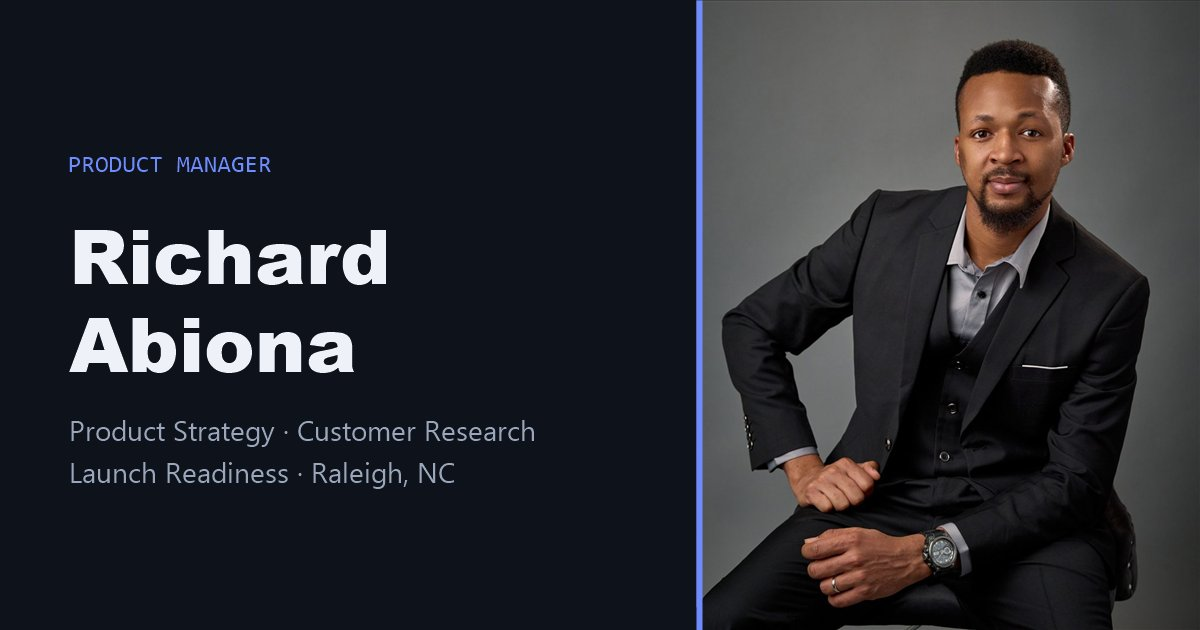
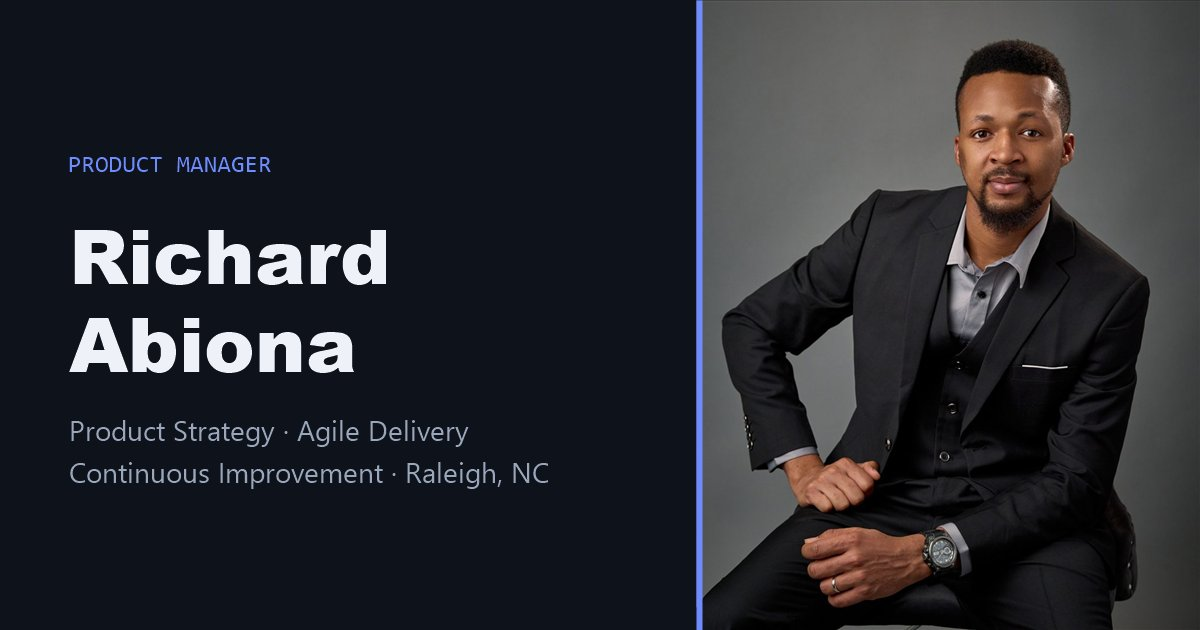
Add files via upload

Changed region(s): [[0.0617, 0.6635, 0.4625, 0.7841]]

diff --git a/index.html b/index.html
@@ -6,7 +6,7 @@
 <style>body{margin:0}img{max-width:100%}[hidden]{display:none!important}</style>
 <title>Richard Abiona | Product Manager</title>
 <meta name="claude:viewport-fit-sides" content="cover">
-<meta name="description" content="Richard Abiona is a Raleigh, NC product manager who turns customer research and stakeholder decisions into build-ready requirements and launch-ready SaaS products.">
+<meta name="description" content="Richard Abiona is a Raleigh, NC product manager who owns SaaS roadmaps and delivery, with a background in product operations, process improvement, and data analysis.">
 <meta name="author" content="Richard Abiona">
 <meta name="robots" content="index, follow">
 <link rel="canonical" href="https://richardabiona.com/">
@@ -17,7 +17,7 @@
 <meta property="og:type" content="profile">
 <meta property="og:site_name" content="Richard Abiona">
 <meta property="og:title" content="Richard Abiona | Product Manager">
-<meta property="og:description" content="Product strategy, customer research, requirements, and launch readiness for SaaS products. Lean Six Sigma Green Belt. Based in Raleigh, NC.">
+<meta property="og:description" content="Product strategy, Agile delivery, continuous improvement, and data analysis. Lean Six Sigma Green Belt. Based in Raleigh, NC.">
 <meta property="og:url" content="https://richardabiona.com/">
 <meta property="og:image" content="https://richardabiona.com/og-image.jpg">
 <meta property="og:image:width" content="1200">
@@ -27,7 +27,7 @@
 <meta property="profile:last_name" content="Abiona">
 <meta name="twitter:card" content="summary_large_image">
 <meta name="twitter:title" content="Richard Abiona | Product Manager">
-<meta name="twitter:description" content="Product strategy, customer research, requirements, and launch readiness for SaaS products. Based in Raleigh, NC.">
+<meta name="twitter:description" content="Product strategy, Agile delivery, continuous improvement, and data analysis. Based in Raleigh, NC.">
 <meta name="twitter:image" content="https://richardabiona.com/og-image.jpg">
 <script type="application/ld+json">
 {
@@ -46,7 +46,7 @@
     "email": "mailto:richardabiona007@gmail.com",
     "jobTitle": "Product Manager",
     "worksFor": { "@type": "Organization", "name": "Aeonian Technology LLC" },
-    "description": "Product manager who turns customer research and stakeholder decisions into build-ready requirements and launch-ready SaaS products.",
+    "description": "Product manager who owns SaaS roadmaps and delivery, with a background in product operations, process improvement, and data analysis.",
     "address": { "@type": "PostalAddress", "addressLocality": "Raleigh", "addressRegion": "NC", "addressCountry": "US" },
     "alumniOf": [
       { "@type": "CollegeOrUniversity", "name": "North Carolina State University" },
@@ -58,7 +58,7 @@
       { "@type": "EducationalOccupationalCredential", "name": "Lean Six Sigma Green Belt" },
       { "@type": "EducationalOccupationalCredential", "name": "Design Thinking Certification", "recognizedBy": { "@type": "Organization", "name": "StacStart" } }
     ],
-    "knowsAbout": ["Product management", "Product strategy", "Product roadmaps", "Customer research", "Requirements definition", "User stories", "Launch readiness", "Go-to-market planning", "Stakeholder management", "Lean Six Sigma", "Design thinking", "AI web applications"],
+    "knowsAbout": ["Product management", "Product strategy", "Product operations", "Project management", "Agile delivery", "Continuous improvement", "Lean Six Sigma", "DMAIC", "Statistical process control", "Process capability analysis", "Data analysis", "Regression analysis", "Time-series forecasting", "KPI dashboards", "Stakeholder management"],
     "sameAs": ["https://www.linkedin.com/in/richard-abiona-0084b285/"]
   }
 }
@@ -306,14 +306,8 @@ section + section { border-top: 1px solid var(--line); }
 .cred li { padding-block: 12px; border-top: 1px solid var(--line); display: grid; gap: 2px; }
 .cred li b { font-weight: 600; }
 .cred li span { color: var(--muted); font-size: 0.9375rem; }
-
-/* Service */
-.service { display: grid; gap: 16px; grid-template-columns: repeat(auto-fit, minmax(min(100%, 420px), 1fr)); }
-.svc { background: var(--surface); border: 1px solid var(--line); padding: 24px; display: grid; gap: 8px; align-content: start; transition: transform 0.35s var(--ease), box-shadow 0.35s var(--ease); }
-.svc:hover { transform: translateY(-3px); box-shadow: var(--shadow); }
-.svc h3 { font-size: 1.125rem; font-weight: 800; }
-.svc p { color: var(--muted); font-size: 0.96875rem; }
-.svc.lead { border-color: var(--accent); }
+.also { margin-top: 40px; padding-top: 20px; border-top: 1px solid var(--line); color: var(--muted); max-width: 46rem; font-size: 0.98rem; }
+.also b { color: var(--ink); font-weight: 600; }
 
 /* Contact */
 .contact { background: var(--hero-bg); color: var(--hero-ink); border-top: 0 !important; }
@@ -360,12 +354,13 @@ section + section { border-top: 1px solid var(--line); }
   <div class="wrap">
     <p class="spec">Product Manager · Raleigh, NC</p>
     <h1><span class="hi">Hi, I'm</span>Richard Abiona</h1>
-    <p class="lede">I turn customer research and stakeholder decisions into build-ready requirements, and I make sure products are ready before they launch. I bring a Lean Six Sigma eye for quality and a communicator's ear for users.</p>
+    <p class="lede">I own products from roadmap to release, and I use data and Lean Six Sigma methods to keep the work behind them running better. My background spans product, operations, and continuous improvement.</p>
     <ul class="hero-tags">
       <li>Product strategy &amp; roadmaps</li>
-      <li>Customer research</li>
-      <li>User stories &amp; acceptance criteria</li>
-      <li>Launch readiness</li>
+      <li>Agile delivery</li>
+      <li>Product operations</li>
+      <li>Continuous improvement</li>
+      <li>Data analysis &amp; forecasting</li>
       <li>Lean Six Sigma Green Belt</li>
     </ul>
     <div class="hero-cta">
@@ -380,21 +375,21 @@ section + section { border-top: 1px solid var(--line); }
     <div class="wrap about-grid">
       <div>
         <p class="spec">About</p>
-        <h2 style="margin-top:12px">A product manager who started by listening.</h2>
+        <h2 style="margin-top:12px">A product manager with an operator's discipline.</h2>
         <figure class="portrait" data-reveal>
           <div class="frame"><img src="richard-abiona.jpg" width="900" height="1125" alt="Portrait of Richard Abiona in a black three-piece suit, seated against a grey backdrop"></div>
           <figcaption class="spec">Raleigh, NC</figcaption>
         </figure>
       </div>
       <div class="about-copy">
-        <p>I'm a product manager at Aeonian Technology, where I run strategy and roadmaps for three SaaS products and report directly to the CEO. I'm also finishing an MS in Technology Management at North Carolina A&amp;T State University, with a 4.0 GPA.</p>
-        <p>I came to product through communication. I spent the years after my undergraduate degree leading communication and stakeholder engagement, most recently at The CANs in Abuja, a nonprofit that built digital platforms against gender-based violence, police brutality, and poverty. There I helped take the UNSUB platform from pilot to 2,000 users and learned that good products start with the people who use them.</p>
-        <p>My toolkit spans both sides of the work. On the research side: surveys, interviews, personas, and journey maps. On the delivery side: user stories, acceptance criteria, risk-based test plans, and go/no-go criteria. As a Lean Six Sigma Green Belt, I measure what matters, and I build AI-powered web apps of my own.</p>
+        <p>I'm a product manager at Aeonian Technology, where I own strategy, roadmaps, and delivery for three SaaS platforms and report directly to the CEO. I'm also completing an MS in Technology Management at North Carolina A&amp;T State University, with a 4.0 GPA.</p>
+        <p>Over the past ten years I've worked across product, operations, and programs. At The CANs, I ran platform operations for UNSUB and grew it from 17 to 2,000 users across 122 partner organizations in two months. As a consultant, I've redesigned client workflows and helped leaders make better decisions with data.</p>
+        <p>I let evidence guide the work. As a Lean Six Sigma Green Belt, I use DMAIC, process capability analysis, regression, and forecasting to find what's holding a process back and to measure whether a change worked. I also build AI-powered web apps of my own.</p>
         <a class="btn" href="#contact">Get in touch <span class="arr">→</span></a>
         <div class="readout" aria-label="Highlights">
-          <div data-reveal><b data-count="3">3</b><span>SaaS products managed in parallel</span></div>
+          <div data-reveal><b data-count="3">3</b><span>SaaS platforms owned in parallel</span></div>
           <div data-reveal style="--d:.08s"><b data-count="2000" data-suffix="">2,000</b><span>UNSUB users, up from 17 in two months</span></div>
-          <div data-reveal style="--d:.16s"><b data-count="150" data-suffix="+">150+</b><span>student registrations led at BVCC</span></div>
+          <div data-reveal style="--d:.16s"><b data-count="100" data-prefix="$" data-suffix="K">$100K</b><span>funding secured with data-backed reporting</span></div>
         </div>
       </div>
     </div>
@@ -404,43 +399,43 @@ section + section { border-top: 1px solid var(--line); }
     <div class="wrap">
       <div class="sec-head">
         <p class="spec">What I do</p>
-        <h2>From discovery to a confident launch.</h2>
+        <h2>From discovery to delivery, then better each cycle.</h2>
       </div>
       <div class="do-grid">
         <article class="do-item" data-reveal>
-          <p class="spec">Roadmaps · Prioritization · GTM</p>
+          <p class="spec">Roadmaps · Prioritization · MVP</p>
           <h3>Product Strategy</h3>
-          <p>Roadmap development, feature prioritization, product positioning, and go-to-market planning, tied to what executives and customers actually need.</p>
+          <p>Roadmap development, lifecycle management, feature prioritization, MVP scoping, and go-to-market planning.</p>
         </article>
         <article class="do-item" data-reveal style="--d:.06s">
           <p class="spec">Surveys · Interviews · Personas</p>
-          <h3>Customer Research</h3>
-          <p>Voice-of-customer surveys, stakeholder interviews, personas, and journey maps, synthesized into recommendations a team can act on.</p>
+          <h3>Research &amp; Discovery</h3>
+          <p>Voice-of-customer surveys, stakeholder interviews, personas, and competitive analysis, turned into recommendations leaders can act on.</p>
         </article>
         <article class="do-item" data-reveal style="--d:.12s">
-          <p class="spec">User stories · Acceptance criteria</p>
+          <p class="spec">Agile · Scrum · Sprint planning</p>
           <h3>Requirements &amp; Delivery</h3>
-          <p>Build-ready requirements, sprint planning support, and day-to-day coordination with offshore development partners.</p>
+          <p>Clear requirements, user stories, and acceptance criteria, with sprint planning and cross-functional coordination across offshore engineering teams.</p>
         </article>
         <article class="do-item" data-reveal>
-          <p class="spec">Go / no-go · Green Belt</p>
-          <h3>Launch Readiness &amp; Quality</h3>
-          <p>Risk-based test plans, severity-based launch criteria, and end-to-end journey testing, backed by Lean Six Sigma methods.</p>
+          <p class="spec">Go / no-go · Release coordination</p>
+          <h3>Launch &amp; Quality</h3>
+          <p>Risk-based test plans, severity-based launch criteria, end-to-end journey testing, SOPs, and training materials.</p>
         </article>
         <article class="do-item" data-reveal style="--d:.06s">
-          <p class="spec">Executives · Partners · Teams</p>
-          <h3>Stakeholder Management</h3>
-          <p>Executive reporting, cross-functional alignment, and influencing without authority. I taught public speaking at NC State for three semesters.</p>
+          <p class="spec">DMAIC · SPC · Cp / Cpk</p>
+          <h3>Continuous Improvement</h3>
+          <p>Lean Six Sigma Green Belt. I set baselines, analyze process capability, redesign workflows, and prioritize improvements with leadership.</p>
         </article>
         <article class="do-item" data-reveal style="--d:.12s">
-          <p class="spec">LLMs · Automation</p>
-          <h3>Building with AI</h3>
-          <p>I design and build AI-powered web apps myself, which keeps my requirements grounded in how software really gets made.</p>
+          <p class="spec">Regression · Forecasting · KPIs</p>
+          <h3>Data Analysis</h3>
+          <p>Multivariate regression, time-series forecasting, and KPI dashboards in Excel and Python that give teams a clear basis for planning.</p>
         </article>
       </div>
       <div class="toolkit" data-reveal>
         <span class="spec">Toolkit</span>
-        <span>Google Analytics</span><span>Google Forms &amp; Apps Script</span><span>Excel</span><span>Canva</span><span>Slack</span><span>Python</span><span>Claude</span><span>ChatGPT</span>
+        <span>Python</span><span>Excel (Advanced)</span><span>Google Analytics</span><span>KPI dashboards</span><span>Google Apps Script</span><span>Google Workspace</span><span>Slack</span><span>Canva</span><span>AI-assisted PM workflows</span>
       </div>
     </div>
   </section>
@@ -449,63 +444,64 @@ section + section { border-top: 1px solid var(--line); }
     <div class="wrap">
       <div class="sec-head">
         <p class="spec">Product work</p>
-        <h2>Selected product outcomes.</h2>
-        <p>What I owned, and what changed because of it.</p>
+        <h2>Selected outcomes.</h2>
+        <p>What I owned, how I ran it, and what changed because of it.</p>
       </div>
 
       <article class="case">
         <div class="case-meta" data-reveal>
           <p class="spec"><b>Product Manager</b> · Aeonian Technology LLC · Aug 2026 – now</p>
           <h3>The Aeon app family</h3>
-          <p>Strategy and roadmaps for three SaaS products: Aeon School (live bus tracking), RideOps (rideshare for operators), and Alumni Assets (fintech fund and association management).</p>
+          <p>End-to-end ownership of three SaaS platforms: Aeon School (live bus tracking), RideOps (rideshare operations), and Alumni Assets (fintech fund and association management).</p>
           <div class="case-metrics">
             <div><b data-count="150" data-suffix="+">150+</b><span>parent users on Aeon School</span></div>
-            <div><b data-count="13">13</b><span>sprints led on the fintech platform</span></div>
+            <div><b data-count="13">13</b><span>sprint fintech platform delivery</span></div>
             <div><b>100+ → 10</b><span>features narrowed to critical journeys</span></div>
           </div>
         </div>
         <ul class="case-body" data-reveal style="--d:.1s">
-          <li><b>Led a 13-sprint fintech build</b> with an offshore partner, writing user stories, acceptance criteria, and requirements for tier benefits, board-vote approval workflows, and portfolio-based membership tiers.</li>
-          <li><b>Built a risk-based pre-launch test plan</b> that narrowed 100+ features to 10 critical end-to-end user journeys, with severity-based go/no-go criteria across web, Android, and six role-based user manuals.</li>
-          <li><b>Ran voice-of-customer research</b> for drivers, operators, and parents using branching surveys built in Google Apps Script, and turned the findings into roadmap recommendations on driver onboarding and tracking reliability.</li>
-          <li><b>Shaped the product family's naming and information architecture</b>, wrote a branding proposal that client executives approved, and created sales content that surfaced an undersold charter booking feature.</li>
+          <li><b>Managing a 13-sprint fintech delivery</b> with an offshore engineering partner: user stories, requirements, and acceptance criteria for tier benefit logic, board-vote approval workflows, and portfolio-based membership tiers.</li>
+          <li><b>Built a risk-based pre-launch test plan</b> that narrowed 100+ features to 10 critical end-to-end journeys, with severity-based go/no-go criteria. I coordinated testing across web and Android, produced six role-based user manuals, and finished validation on schedule.</li>
+          <li><b>Ran voice-of-customer research</b> for drivers, operators, and parents using branching surveys built in Google Apps Script. The CEO approved the resulting roadmap recommendations on driver onboarding and tracking reliability.</li>
+          <li><b>Defined information architecture and naming</b> for the full app family, and produced sales enablement materials that surfaced an undersold charter booking feature, adding a new line to the commercial pitch.</li>
         </ul>
       </article>
 
       <article class="case">
         <div class="case-meta" data-reveal>
-          <p class="spec"><b>Communications &amp; Stakeholder Engagement Lead</b> · The CANs · 2019 – 2023</p>
+          <p class="spec"><b>Platform Operations &amp; Stakeholder Engagement Lead</b> · The CANs · 2019 – 2023</p>
           <h3>UNSUB platform &amp; Project RISE</h3>
-          <p>Helped take a civic-tech platform from pilot to scaled adoption, and ran launch readiness for a program spanning 70+ organizations.</p>
+          <p>Took a platform from pilot to scaled deployment, and ran program operations across 70+ partner organizations.</p>
           <div class="case-metrics">
             <div><b>17 → 2,000</b><span>users in two months</span></div>
-            <div><b data-count="122">122</b><span>partner organizations onboarded</span></div>
-            <div><b data-count="100" data-prefix="$" data-suffix="K">$100K</b><span>in funding secured</span></div>
+            <div><b data-count="122">122</b><span>partner organizations deployed</span></div>
+            <div><b data-count="35000">35,000</b><span>Project RISE beneficiaries reached</span></div>
           </div>
         </div>
         <ul class="case-body" data-reveal style="--d:.1s">
-          <li><b>Supported the UNSUB lifecycle</b> from pilot to scale, coordinating onboarding across 122 partner organizations and iterating on the platform from user requirements.</li>
-          <li><b>Turned product outcomes into funding</b> with data-backed performance reports and stakeholder updates that secured $100,000.</li>
-          <li><b>Managed launch readiness for Project RISE</b> across 70+ organizations, reaching 35,000 beneficiaries on time and to standard.</li>
+          <li><b>Managed UNSUB's adoption and lifecycle</b> through structured onboarding, targeted change management, and platform iteration that removed adoption barriers at scale.</li>
+          <li><b>Turned field feedback into requirements</b>, prioritizing what partner organizations needed and feeding it into platform improvements and deployment decisions.</li>
+          <li><b>Secured $100,000 in program funding</b> with data-backed performance reporting for executives and donors.</li>
+          <li><b>Ran Project RISE operations</b> across 70+ organizations, coordinating launch readiness, logistics, and resources to deliver on time and within quality and compliance standards.</li>
         </ul>
       </article>
 
       <article class="case">
         <div class="case-meta" data-reveal>
-          <p class="spec"><b>Fellow &amp; Student Leader</b> · Cyber Alliance · BVCC · 2025 – 2026</p>
-          <h3>Market research and growth</h3>
-          <p>Research, personas, and KPI dashboards that fed positioning and go-to-market decisions, plus a recruitment campaign run like a product launch.</p>
+          <p class="spec"><b>Quality, data &amp; process work</b> · 2016 – now</p>
+          <h3>Continuous improvement and analytics</h3>
+          <p>Statistical process control, forecasting, and workflow redesign that replaced intuition with measurable decisions.</p>
           <div class="case-metrics">
-            <div><b data-count="150" data-suffix="+">150+</b><span>registrations for BVCC's Fall cohort</span></div>
-            <div><b>KPI</b><span>dashboards built against defined targets</span></div>
-            <div><b data-count="10" data-suffix="+">10+</b><span>SME clients served as a consultant</span></div>
+            <div><b>Cp / Cpk</b><span>capability analysis tied to yield</span></div>
+            <div><b>MAD · MAPE</b><span>forecast accuracy measures applied</span></div>
+            <div><b>2×</b><span>client output within one month</span></div>
           </div>
         </div>
         <ul class="case-body" data-reveal style="--d:.1s">
-          <li><b>At Cyber Alliance</b>, I ran market research and competitive analysis that informed positioning and go-to-market planning. I built personas and buyer journey maps from stakeholder interviews.</li>
-          <li><b>Built KPI dashboards</b> to track performance and engagement against targets, surfacing insights that improved program strategy.</li>
-          <li><b>As BVCC's Product Management Student Leader at NC A&amp;T</b>, I designed and ran a multi-channel recruitment strategy that brought in 150+ registrations.</li>
-          <li><b>As an independent consultant (2016 – 2023)</b>, I helped 10+ small businesses redesign their processes, doubling one client's output within a month.</li>
+          <li><b>Eclipse Extractives:</b> advising a tungsten mining operation on a phased Statistical Process Control program. I designed the assessment framework, set baselines, and used process capability analysis to show the CEO how variation affects yield.</li>
+          <li><b>Cyber Alliance:</b> applied time-series forecasting and multivariate regression to build resource allocation models, giving senior leadership a data-backed basis for planning. My KPI dashboards identified underperforming channels and led to reallocation recommendations.</li>
+          <li><b>BVCC, NC A&amp;T Chapter:</b> ran a multi-channel recruitment initiative end to end, using bi-weekly pipeline reporting on conversion to adjust strategy and deliver 150+ registrations against target.</li>
+          <li><b>Strategy &amp; product consulting:</b> redesigned workflows for 10+ clients across financial services, nonprofit, and technology, doubling output within one month across multiple engagements. I also led build-versus-buy evaluations and vendor relationships.</li>
         </ul>
       </article>
     </div>
@@ -560,49 +556,49 @@ section + section { border-top: 1px solid var(--line); }
     <div class="wrap">
       <div class="sec-head">
         <p class="spec">Experience</p>
-        <h2>From communication to product.</h2>
+        <h2>Ten years across product, operations, and quality.</h2>
         <p>Most recent first.</p>
       </div>
       <ol class="path">
         <li data-reveal>
           <span class="when">Aug 2026 – now</span>
           <h3>Product Manager<span class="where">Aeonian Technology LLC · Remote</span></h3>
-          <p>Strategy and roadmaps for three SaaS products, reporting to the CEO.</p>
+          <p>Own vision, strategy, roadmap, and lifecycle for three SaaS platforms. Primary liaison between executive leadership and the offshore engineering team.</p>
         </li>
         <li data-reveal>
-          <span class="when">Summer 2026</span>
-          <h3>ACE CNC Bootcamp Trainer<span class="where">ACE CNC · NC A&amp;T</span></h3>
-          <p>Trained participants across two CNC machining bootcamps. Led metrology lectures and training for college and high school students with Dr. David Chamblee.</p>
-        </li>
-        <li data-reveal>
-          <span class="when">Jan – Apr 2026</span>
+          <span class="when">Jan – May 2026</span>
           <h3>Product Management Student Leader<span class="where">BVCC · NC A&amp;T Chapter</span></h3>
-          <p>Led recruitment for BVCC's free product curriculum: 150+ registrations, on-campus talks, tabling events, and media.</p>
+          <p>Owned a multi-channel recruitment initiative from strategy to outcome measurement, delivering 150+ registrations against target.</p>
         </li>
         <li data-reveal>
           <span class="when">Aug 2025 – now</span>
           <h3>MS Technology Management<span class="where">North Carolina A&amp;T State University</span></h3>
-          <p>GPA 4.0, expected December 2026. Coursework in technology management analytics, strategic quality, and Six Sigma.</p>
+          <p>GPA 4.0, expected December 2026. Coursework in technology management analytics, strategic quality, Six Sigma, and strategic technology management.</p>
         </li>
         <li data-reveal>
           <span class="when">Apr 2025 – Jan 2026</span>
           <h3>Communication &amp; Marketing Fellow<span class="where">Cyber Alliance · Raleigh, NC</span></h3>
-          <p>Market research, personas, journey maps, and KPI dashboards that informed positioning and go-to-market planning.</p>
+          <p>Forecasting and regression models, KPI dashboards, personas, and competitive analysis that informed planning and go-to-market positioning.</p>
         </li>
         <li data-reveal>
           <span class="when">2023 – 2025</span>
           <h3>MS Communication &amp; Graduate Certificate in GIS<span class="where">NC State University · Full scholarship</span></h3>
-          <p>GPA 4.0. Taught COM 110 Public Speaking for three semesters as a teaching assistant. Schnog Fellow and ISAC member.</p>
+          <p>GPA 4.0. Taught public speaking for three semesters as a teaching assistant.</p>
+        </li>
+        <li data-reveal>
+          <span class="when">2022 – now</span>
+          <h3>Quality Engineering Consultant<span class="where">Eclipse Extractives · Remote</span></h3>
+          <p>Advising leadership on a Statistical Process Control program to reduce process variability and improve yield.</p>
         </li>
         <li data-reveal>
           <span class="when">2019 – 2023</span>
-          <h3>Communications &amp; Stakeholder Engagement Lead<span class="where">The CANs · Abuja, Nigeria</span></h3>
-          <p>Took the UNSUB platform from 17 to 2,000 users, secured $100K in funding, and ran Project RISE across 70+ organizations.</p>
+          <h3>Platform Operations &amp; Stakeholder Engagement Lead<span class="where">The CANs · Abuja, Nigeria</span></h3>
+          <p>Scaled UNSUB from 17 to 2,000 users across 122 organizations, secured $100K in funding, and ran Project RISE across 70+ organizations.</p>
         </li>
         <li data-reveal>
           <span class="when">2016 – 2023</span>
-          <h3>Communications Consultant<span class="where">Independent · Remote</span></h3>
-          <p>Process and communication improvement for 10+ small and mid-sized businesses.</p>
+          <h3>Strategy &amp; Product Consultant<span class="where">Independent · Remote</span></h3>
+          <p>Product strategy, workflow analysis, and process improvement for 10+ clients across financial services, nonprofit, and technology.</p>
         </li>
         <li data-reveal>
           <span class="when">2015</span>
@@ -635,62 +631,31 @@ section + section { border-top: 1px solid var(--line); }
             <li><b>Product Management Certificate</b><span>Black Venture Capital Consortium · 2025</span></li>
             <li><b>Lean Six Sigma Green Belt</b><span>2025</span></li>
             <li><b>Design Thinking</b><span>StacStart · 2025</span></li>
-            <li><b>ACE CNC Certificate</b><span>Online program and in-person bootcamp</span></li>
           </ul>
         </div>
         <div data-reveal style="--d:.16s">
           <h3>Honors</h3>
           <ul class="cred">
             <li><b>Cyber Alliance Fellowship</b><span>Communication &amp; Marketing Fellow · 2025 – 2026</span></li>
-            <li><b>Schnog Fellowship</b><span>Alfred and Anita Schnog Foundation · 2024 – 2025</span></li>
             <li><b>Full graduate scholarship</b><span>NC State University</span></li>
           </ul>
         </div>
       </div>
+      <p class="also" data-reveal><b>Lights Still On:</b> I shot, produced, directed, and edited this volunteer documentary for the North Carolina Coalition Against Domestic Violence. <a href="https://youtu.be/rvpmNzFEMUY" target="_blank" rel="noopener">Watch on YouTube →</a></p>
     </div>
   </section>
 
-  <section id="service">
-    <div class="wrap">
-      <div class="sec-head">
-        <p class="spec">Giving back</p>
-        <h2>Service and community.</h2>
-      </div>
-      <div class="service">
-        <article class="svc lead" data-reveal>
-          <p class="spec">Documentary for NCCADV · 2025 – 2026</p>
-          <h3>Lights Still On</h3>
-          <p>Shot, produced, directed, and edited a volunteer documentary for the North Carolina Coalition Against Domestic Violence on its affiliate agencies and the effect of funding cuts on their work. Member since 2023.</p>
-          <p><a href="https://youtu.be/rvpmNzFEMUY" target="_blank" rel="noopener">Watch the documentary on YouTube →</a></p>
-        </article>
-        <article class="svc" data-reveal style="--d:.08s">
-          <p class="spec">Research · Schnog Fellow</p>
-          <h3>Holocaust Education Resources</h3>
-          <p>With Prof. Roy Schwartzman at NC State, built a website, map, videos, and teaching materials for students and Holocaust educators.</p>
-        </article>
-        <article class="svc" data-reveal>
-          <p class="spec">Advisory council</p>
-          <h3>ISAC, NC State</h3>
-          <p>Gave feedback and recommendations to the Office of International Services on programs and policies for international students.</p>
-        </article>
-        <article class="svc" data-reveal style="--d:.08s">
-          <p class="spec">Volunteer</p>
-          <h3>ISSERV, NC State</h3>
-          <p>Volunteered with the Food Bank of Central &amp; Eastern North Carolina, Raleigh BugFest, and other food banks.</p>
-        </article>
-      </div>
-    </div>
-  </section>
+  
 
   <section id="contact" class="contact">
     <div class="wrap">
       <p class="spec">Contact</p>
-      <h2 style="margin-top:14px">Let's build products people use.</h2>
-      <p>I'm open to product management roles and projects. Reach out about a role, a product that needs a clear roadmap, or a launch that needs to go right.</p>
+      <h2 style="margin-top:14px">Let's make the work run better.</h2>
+      <p>Reach out about a role, a product that needs a clear roadmap, or a process that needs measurable improvement.</p>
       <dl class="contact-rows">
         <div><dt>Email</dt><dd><a href="mailto:richardabiona007@gmail.com" id="email">richardabiona007@gmail.com</a><button class="copy-btn" id="copy-email" type="button">COPY</button></dd></div>
         <div><dt>LinkedIn</dt><dd><a href="https://www.linkedin.com/in/richard-abiona-0084b285/" target="_blank" rel="noopener">linkedin.com/in/richard-abiona</a></dd></div>
-        <div><dt>Based in</dt><dd>Raleigh, North Carolina</dd></div>
+        <div><dt>Based in</dt><dd>Raleigh, North Carolina · Open to relocation</dd></div>
       </dl>
       <p class="foot">© 2026 Richard Abiona</p>
     </div>
